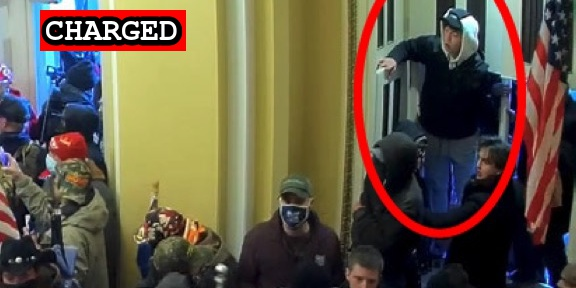
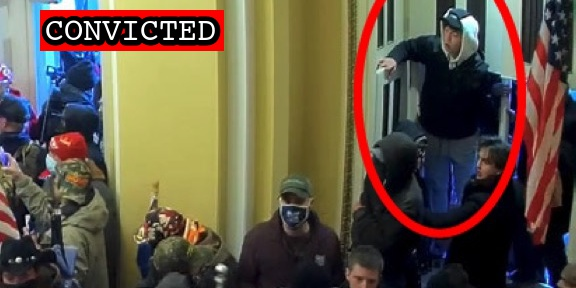
Latest import

Changed region(s): [[0.0625, 0.0312, 0.4062, 0.1875]]

diff --git a/docs/_suspects/matthew-buckler.md b/docs/_suspects/matthew-buckler.md
@@ -4,15 +4,17 @@ lastName: Buckler
 hashtag: MatthewBuckler
 aka:
 residence: Maryland
-status: Charged
+status: Convicted
 date: 2021-09-09
 charged: 2021-09-09
 indicted:
-convicted:
+convicted: 2022-05-27
+acquitted:
 sentenced:
 dismissed:
 deceased:
-plea_hearing:
+plea_hearing: 2022-05-27
+trial_date:
 sentencing:
 age:
 occupation:
@@ -34,7 +36,14 @@ published: true
 caseNumber: 1:21-mj-592
 videos:
 charges:
+- code: 40 USC § 5104(e)(2)(G)
+  title: Parading, demonstrating or picketing in a Capitol building
+  url: https://www.law.cornell.edu/uscode/text/40/5104
+  felony: false
 sentence:
 ---
 - [News Report](https://www.newsweek.com/alleged-capitol-rioter-caught-snapchat-maps-after-tipster-sent-screenshots-fbi-1631259)
 - [Statement of Facts](https://www.justice.gov/usao-dc/case-multi-defendant/file/1434576/download)
+- [Information](https://www.justice.gov/usao-dc/case-multi-defendant/file/1509181/download)
+- [Plea Agreement](https://www.justice.gov/usao-dc/case-multi-defendant/file/1509186/download)
+- [Statement of Offense](https://www.justice.gov/usao-dc/case-multi-defendant/file/1509191/download)

diff --git a/docs/_suspects/thaddis-johnson.md b/docs/_suspects/thaddis-johnson.md
@@ -33,10 +33,9 @@ description: Click for latest case details. Suspects innocent until proven guilt
 author: seditiontrack
 layout: suspect
 published: true
-caseNumber:
+caseNumber: 1:22-mj-115
 videos:
 charges:
 sentence:
 ---
-
-- [Statement of Facts](https://storage.courtlistener.com/recap/gov.uscourts.dcd.243596/gov.uscourts.dcd.243596.1.1.pdf)
+- [Statement of Facts](https://www.justice.gov/usao-dc/case-multi-defendant/file/1509151/download)
